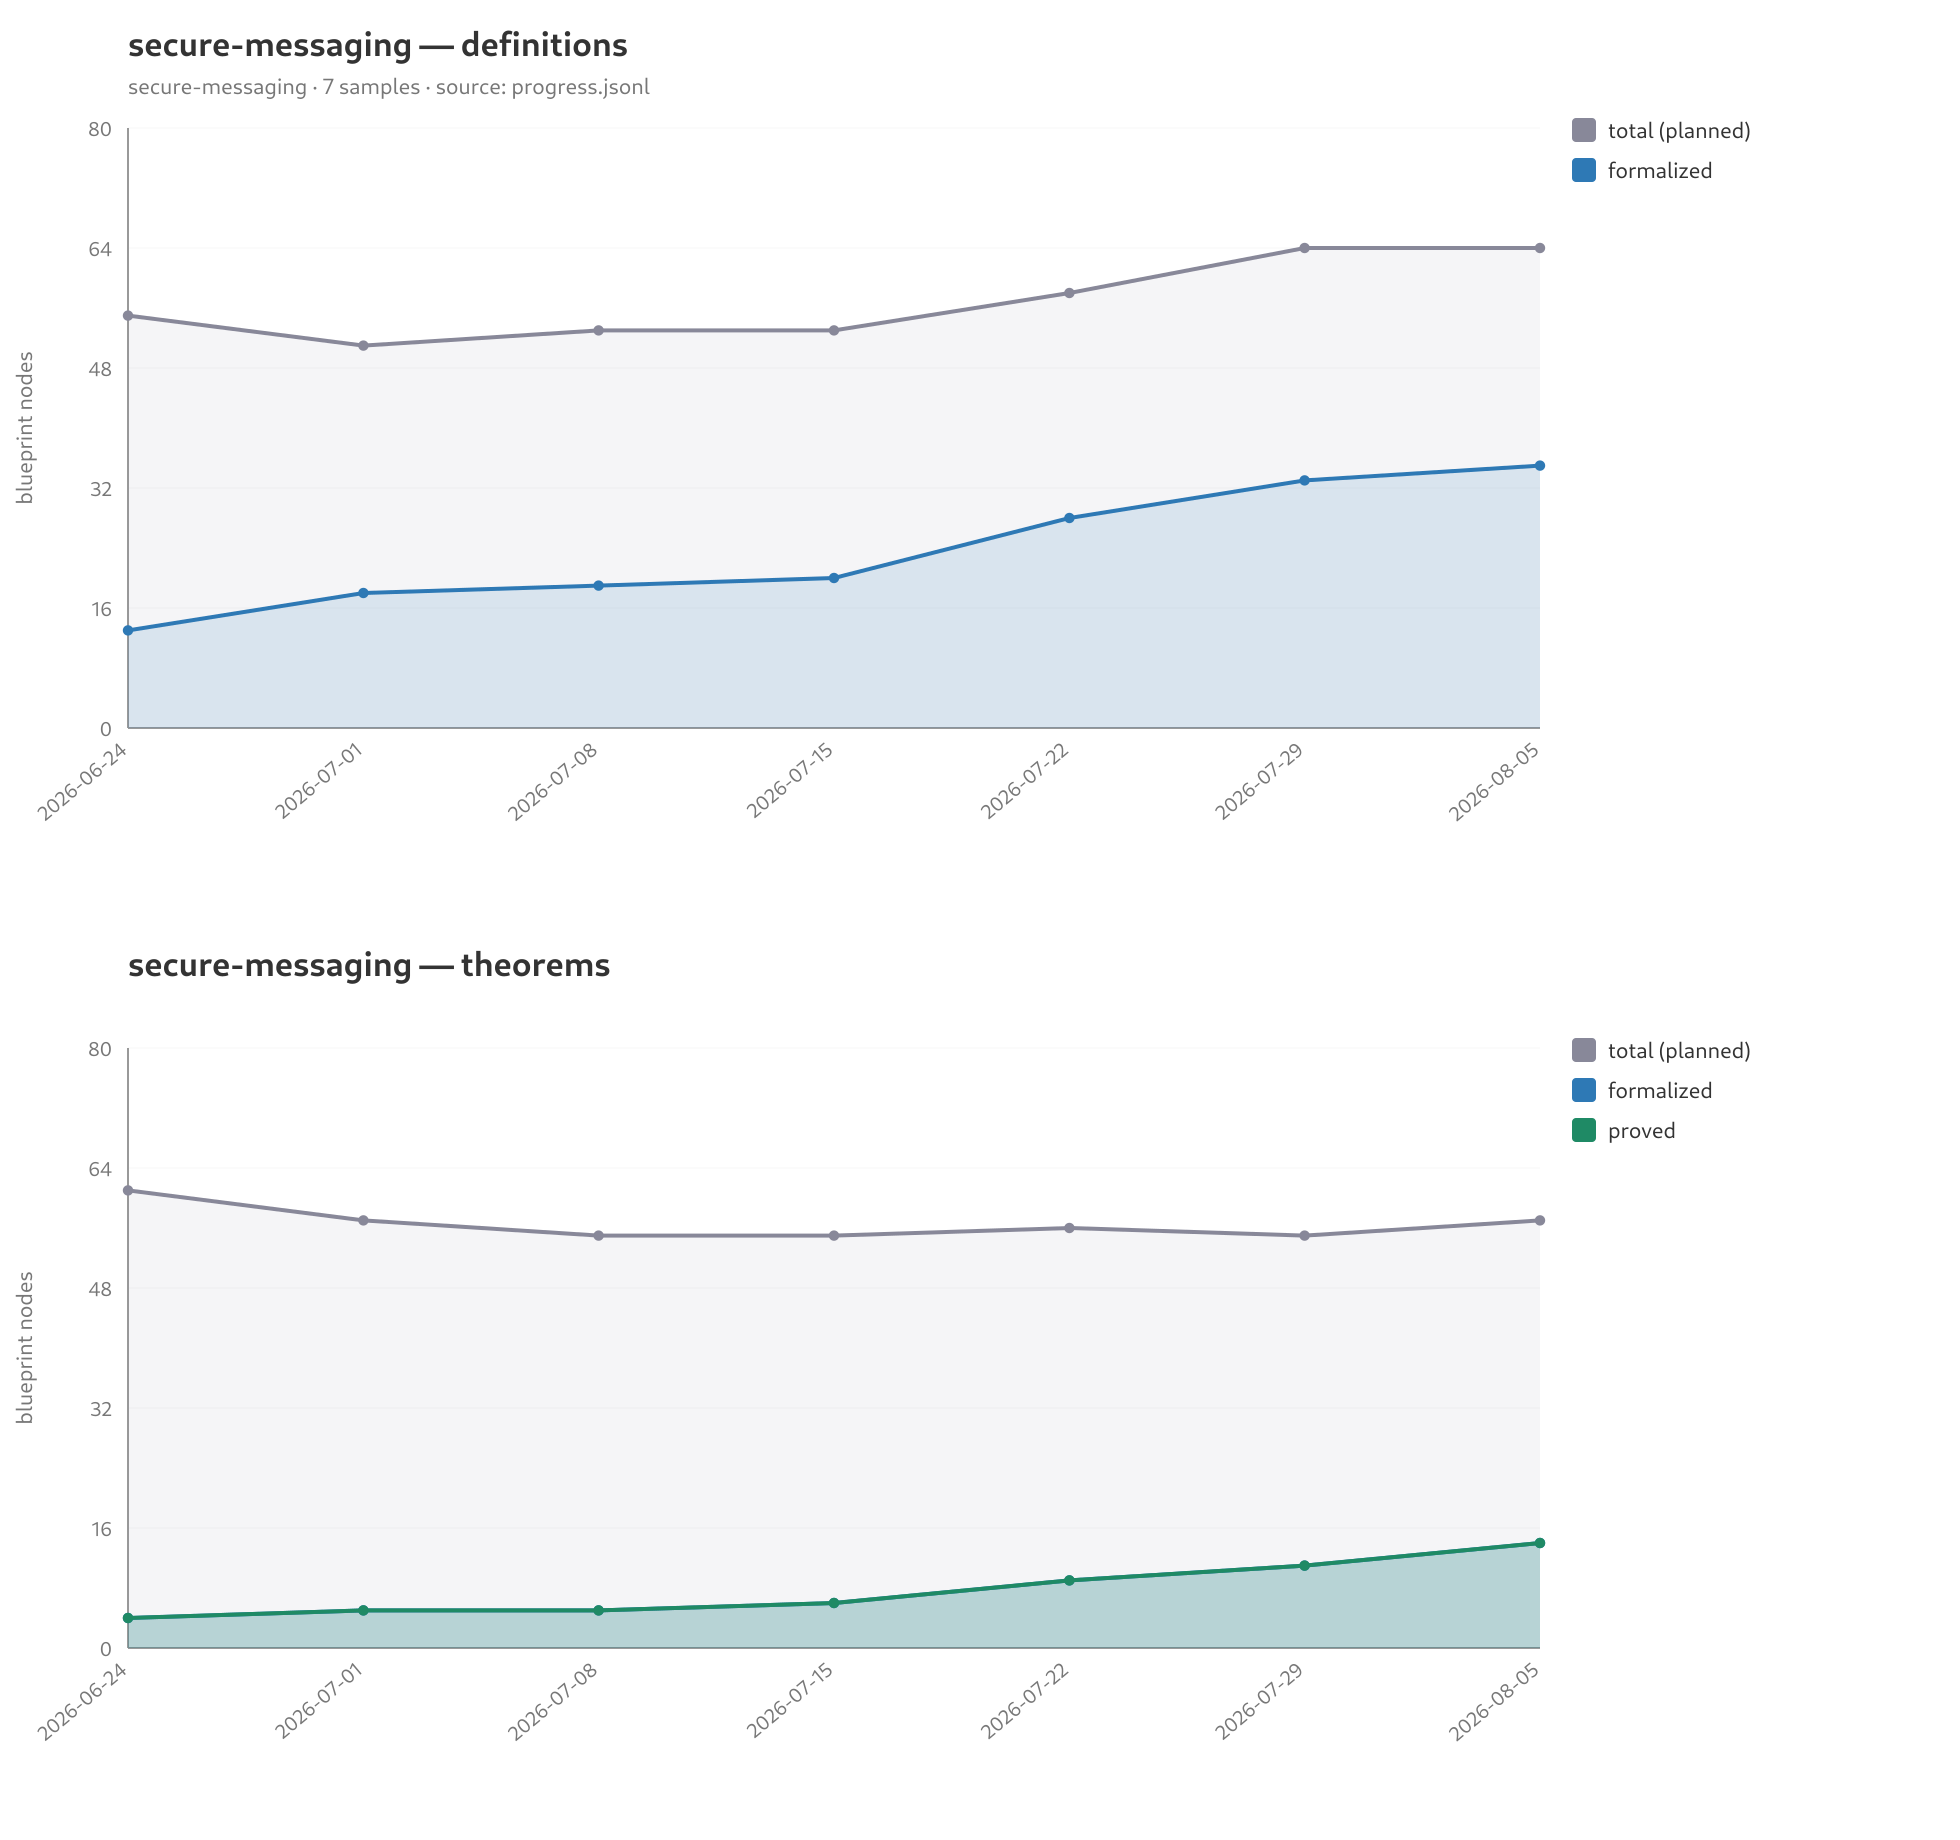
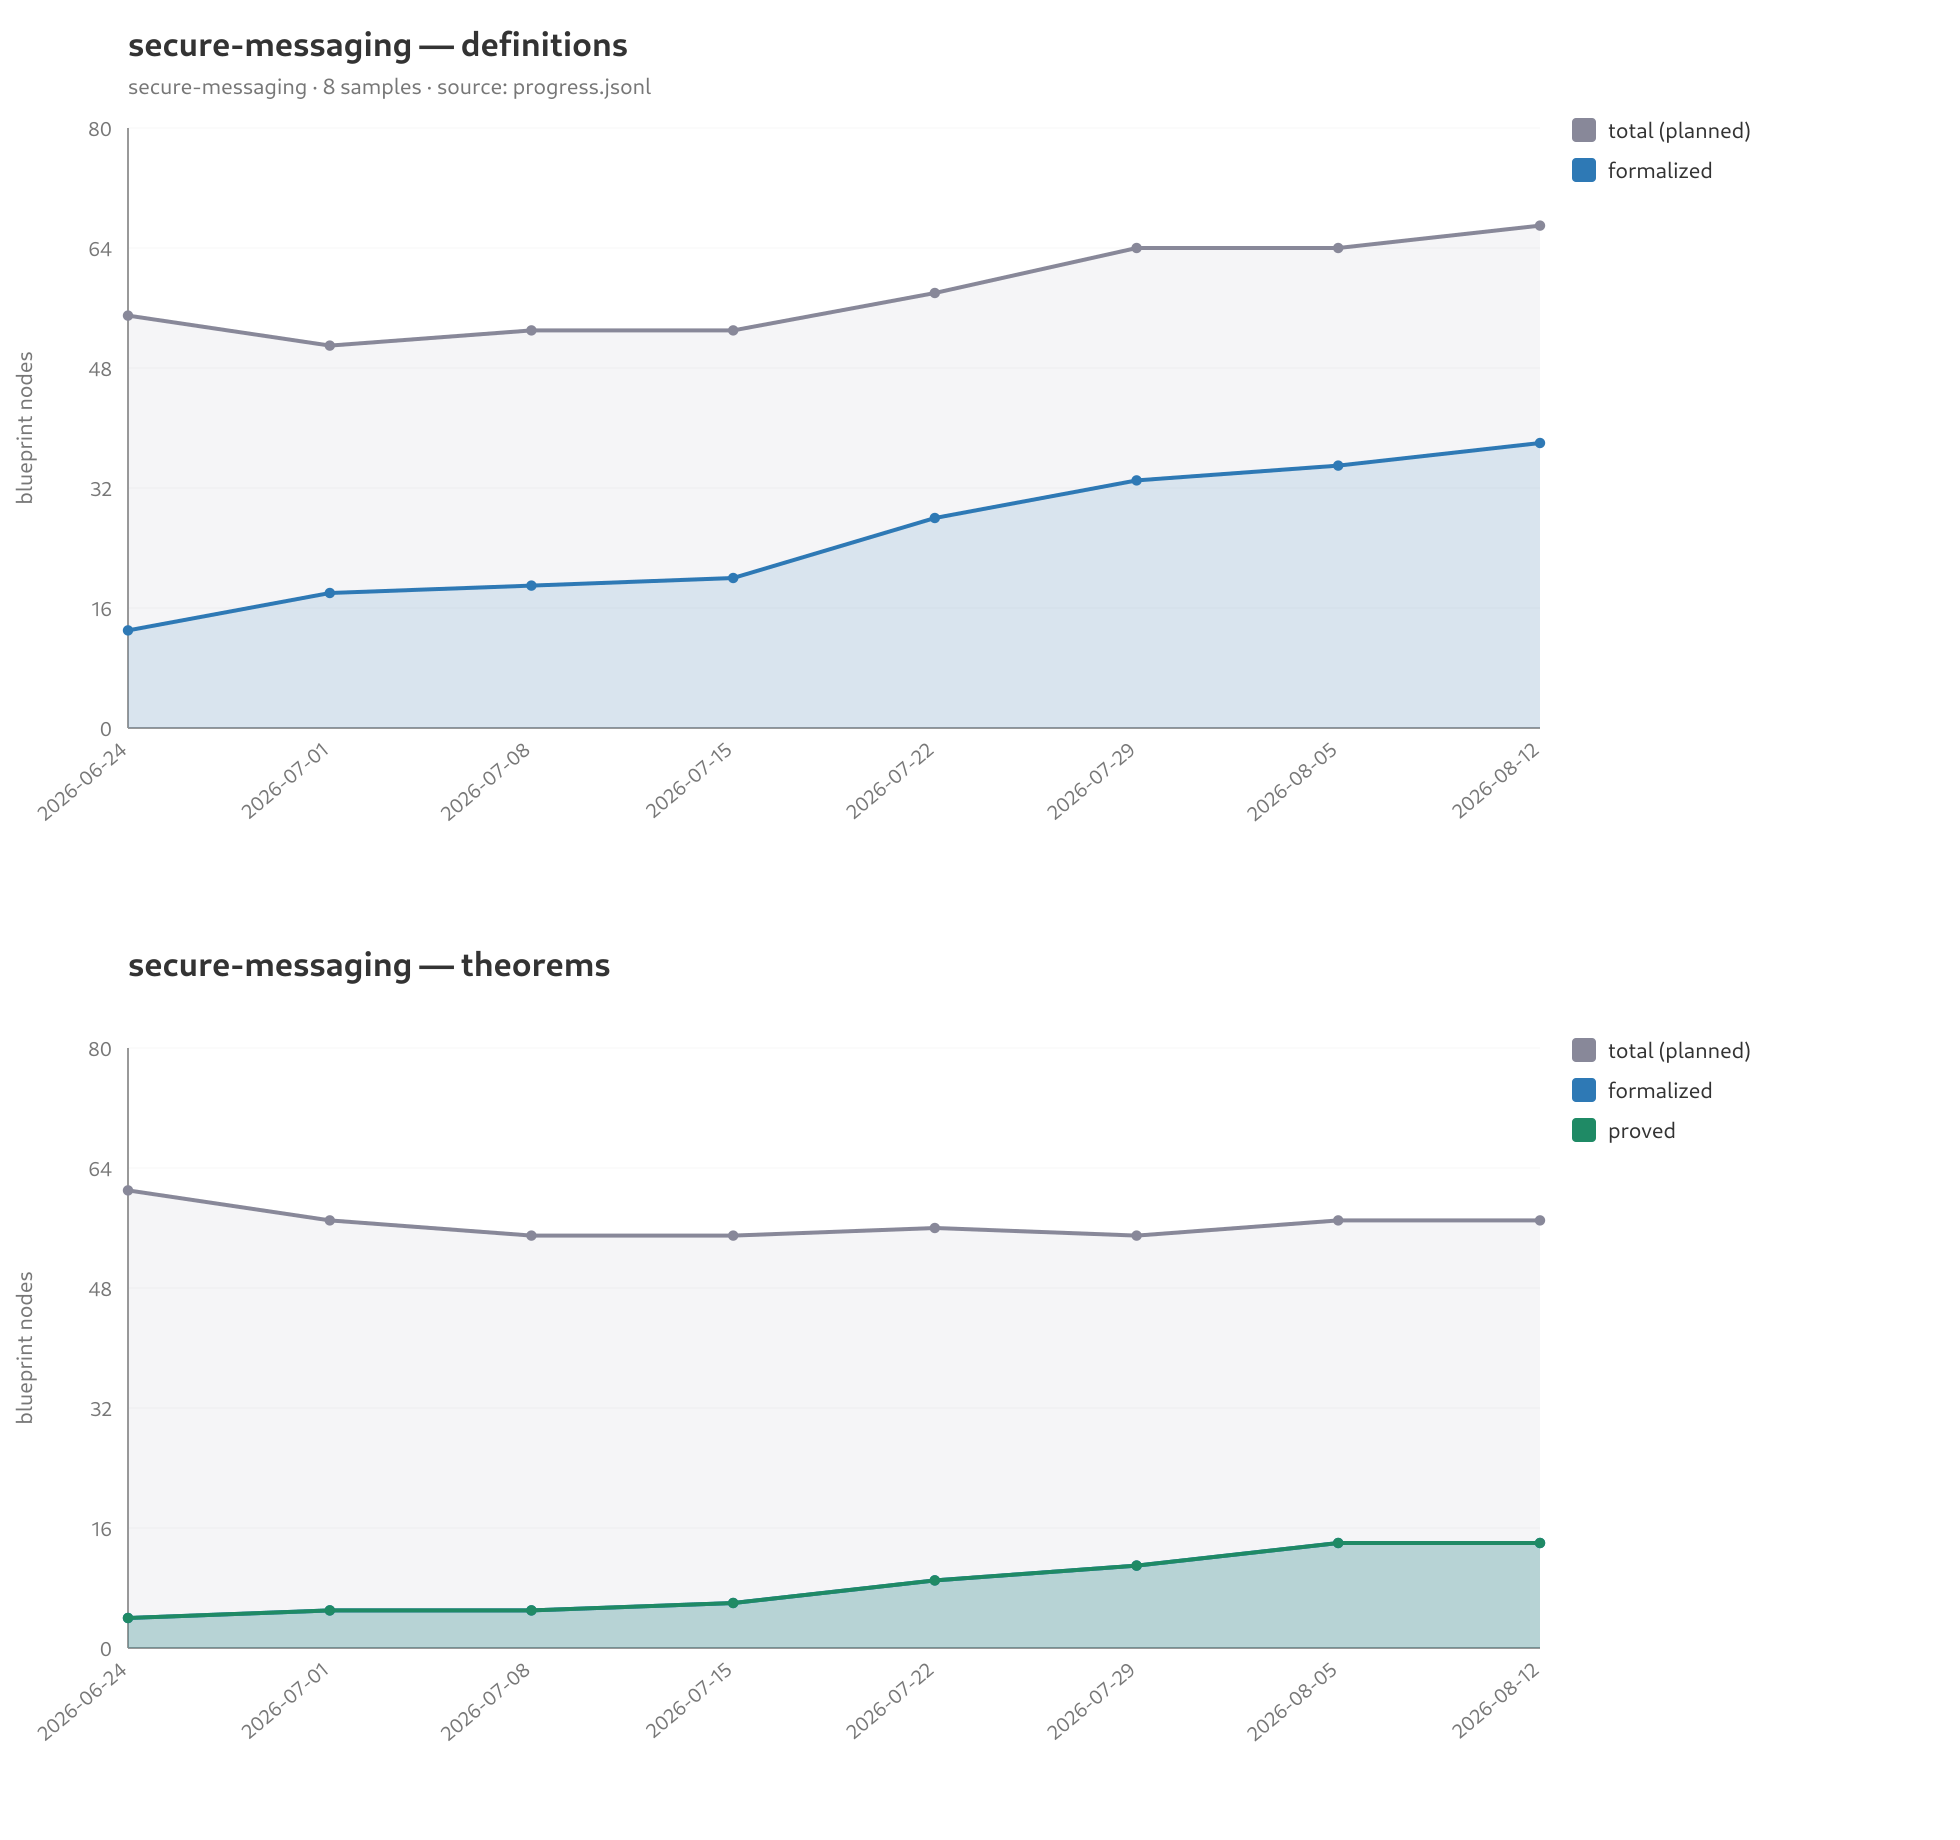
data(secure-messaging): weekly progress sample 2026-08-12
New leanblueprint sample at commit 58caf9cd (Lean v4.30.0, probe-leanblueprint
0.3.0): 124 nodes, 38 defs formalized, 14 theorems formalized/proved. Regenerate
two-panel and combined burn-up charts; refresh update-progress.md counts.

diff --git a/tools/verification-progress-history/data/secure-messaging/update-progress.md b/tools/verification-progress-history/data/secure-messaging/update-progress.md
@@ -6,11 +6,11 @@ Run everything from the tool directory:
 cd tools/verification-progress-history
 ```
 
-Data lives in `data/secure-messaging/`. Last recorded sample: **2026-07-22**
-(`progress.jsonl`, 5 rows). Sampling re-runs the real verifier per commit, so it
-is slow (~10–13 min/commit here); plotting is free.
+Data lives in `data/secure-messaging/`. Last recorded sample: **2026-08-12**
+(`progress.jsonl`, 8 rows). Sampling re-runs the real verifier per commit, so it
+is slow (~13–18 min/commit here); plotting is free.
 
-The committed series is **weekly** (Wednesday-anchored: 2026-06-24 … 2026-07-22),
+The committed series is **weekly** (Wednesday-anchored: 2026-06-24 … 2026-08-12),
 so extend it with `--cadence weekly`.
 
 ## Prerequisites (on PATH, pinned for the whole run)
@@ -29,7 +29,7 @@ week with no new commit adds nothing:
 python3 progress_history.py <repo> \
   --pipeline leanblueprint --cadence weekly \
   --verso-render-cmd scripts/render-docs-site.sh \
-  --since 2026-07-22 --resume \
+  --since 2026-08-12 --resume \
   --work-clone /tmp/vph-secure-messaging \
   --dep-cache-dir /tmp/vph-depcache \
   --sample-timeout 3600
